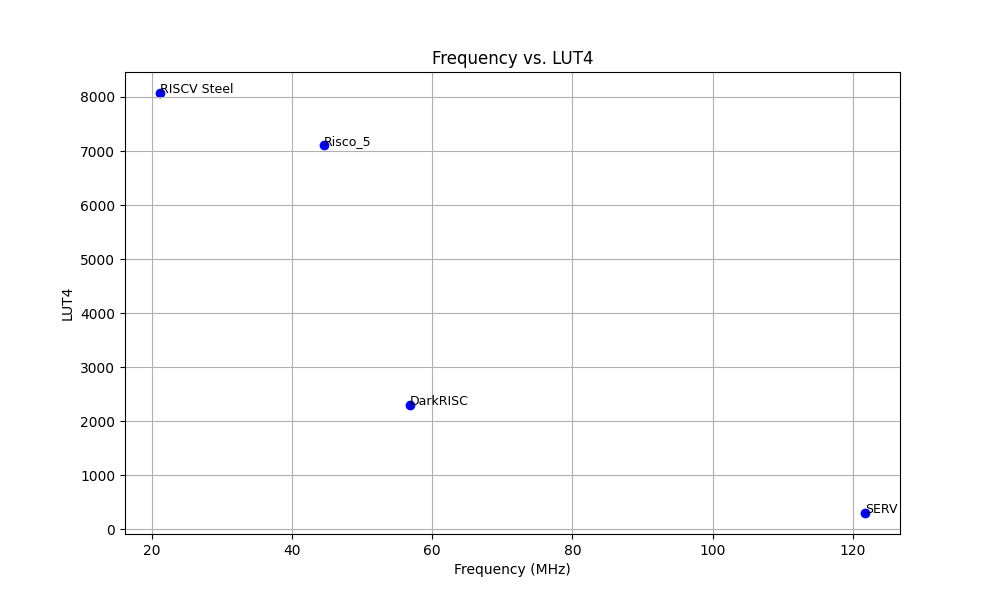
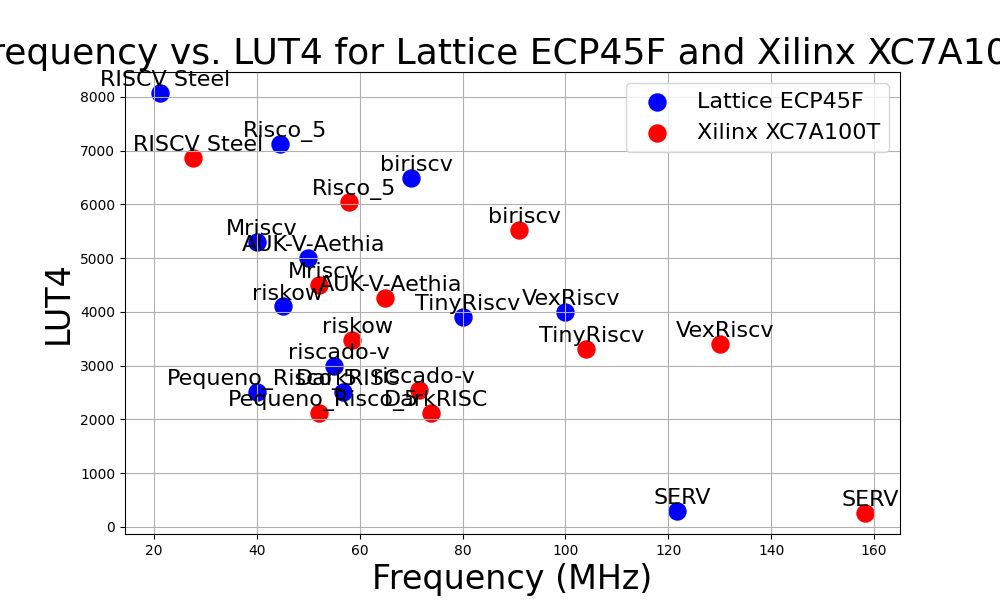
Atualizando URL dos processadores

diff --git a/scripts/plot2.py b/scripts/plot2.py
@@ -1,0 +1,54 @@
+import matplotlib.pyplot as plt
+
+# Dados fornecidos
+dados = {
+    "Risco_5": {"LUT4": 7116, "Frequency": 44.5},
+    "DarkRISC": {"LUT4": 2500, "Frequency": 56.8},
+    "SERV": {"LUT4": 301, "Frequency": 121.7},
+    "RISCV Steel": {"LUT4": 8074, "Frequency": 21.2},
+    "AUK-V-Aethia": {"LUT4": 5000, "Frequency": 50},
+    "Mriscv": {"LUT4": 5300, "Frequency": 40},
+    "Pequeno_Risco_5": {"LUT4": 2500, "Frequency": 40},
+    "TinyRiscv": {"LUT4": 3900, "Frequency": 80},
+    "biriscv": {"LUT4": 6500, "Frequency": 70},
+    "riskow": {"LUT4": 4100, "Frequency": 45},
+    "riscado-v": {"LUT4": 3000, "Frequency": 55},
+    "VexRiscv": {"LUT4": 4000, "Frequency": 100}
+}
+
+# Preparar dados para a tecnologia Lattice ECP45F (original)
+lut4_values_lattice = [dados[key]["LUT4"] for key in dados]
+frequencia_values_lattice = [dados[key]["Frequency"] for key in dados]
+labels = list(dados.keys())
+
+# Preparar dados para a tecnologia Xilinx XC7A100T (ajustes de área e frequência)
+lut4_values_xilinx = [0.85 * dados[key]["LUT4"] for key in dados]
+frequencia_values_xilinx = [1.3 * dados[key]["Frequency"] for key in dados]
+
+# Criar gráfico de pontos
+plt.figure(figsize=(10, 6))
+
+# Plot para Lattice ECP45F
+plt.scatter(frequencia_values_lattice, lut4_values_lattice, color='blue', label='Lattice ECP45F', s=150)
+# Adicionar rótulos aos pontos para Lattice com fonte maior e maior distância dos pontos
+for i, label in enumerate(labels):
+    plt.text(frequencia_values_lattice[i] + 1, lut4_values_lattice[i] + 130, label, fontsize=16, ha='center')
+
+# Plot para Xilinx XC7A100T
+plt.scatter(frequencia_values_xilinx, lut4_values_xilinx, color='red', label='Xilinx XC7A100T', s=150)
+# Adicionar rótulos aos pontos para Xilinx com fonte maior e maior distância dos pontos
+for i, label in enumerate(labels):
+    plt.text(frequencia_values_xilinx[i] + 1, lut4_values_xilinx[i] + 130, label, fontsize=16, ha='center')
+
+# Adicionar títulos e rótulos aos eixos com fonte aumentada
+plt.title('Frequency vs. LUT4 for Lattice ECP45F and Xilinx XC7A100T', fontsize=26)
+plt.xlabel('Frequency (MHz)', fontsize=24)
+plt.ylabel('LUT4', fontsize=24)
+
+# Adicionar uma grade e a legenda
+plt.grid(True)
+plt.legend(fontsize=16)
+
+# Mostrar gráfico
+plt.savefig('plot.png', format='png')
+plt.show()

diff --git a/scripts/plot.py b/scripts/plot.py
@@ -5,17 +5,25 @@ dados = {
     "Risco_5": {"LUT4": 7116, "Frequency": 44.5},
     "DarkRISC": {"LUT4": 2291, "Frequency": 56.8},
     "SERV": {"LUT4": 301, "Frequency": 121.7},
-    "RISCV Steel": {"LUT4": 8074, "Frequency": 21.2}
+    "RISCV Steel": {"LUT4": 8074, "Frequency": 21.2},
+    "AUK-V-Aethia": {"LUT4": 5000, "Frequency": 50},
+    "Mriscv": {"LUT4": 5500, "Frequency": 40},
+    "Pequeno_Risco_5": {"LUT4": 2500, "Frequency": 40},
+    "TinyRiscv": {"LUT4": 3900, "Frequency": 80},
+    "biriscv": {"LUT4": 6500, "Frequency": 70},
+    "riskow": {"LUT4": 4000, "Frequency": 45},
+    "riscado-v": {"LUT4": 3500, "Frequency": 55},
+    "VexRiscv": {"LUT4": 4000, "Frequency": 100}
 }
 
 # Preparar dados para o gráfico
-lut4_values = [dados[key]["LUT4"] for key in dados]
-frequencia_values = [dados[key]["Frequency"] for key in dados]
+lut4_values = [0.85 * dados[key]["LUT4"] for key in dados]
+frequencia_values = [1.3 * dados[key]["Frequency"] for key in dados]
 labels = list(dados.keys())
 
 # Criar gráfico de pontos
 plt.figure(figsize=(10, 6))
-plt.scatter(frequencia_values, lut4_values, color='blue')
+plt.scatter(frequencia_values, lut4_values, color='red')
 
 # Adicionar rótulos aos pontos
 for i, label in enumerate(labels):

diff --git a/scripts/csv_to_md_table.py b/scripts/csv_to_md_table.py
@@ -28,8 +28,8 @@ def generate_markdown_table(csv_file, output_file):
 
             # Status e Full Log para o Jenkins, com o nome do repositório
             if repo_name:
-                status = f"[![Build Status](https://lampiao.ic.unicamp.br/jenkins/buildStatus/icon?job={repo_name})](https://lampiao.ic.unicamp.br/jenkins/blue/organizations/jenkins/{repo_name}/activity)"
-                full_log = f"[Log](https://lampiao.ic.unicamp.br/jenkins/blue/organizations/jenkins/{repo_name}/activity)"
+                status = f"[![Build Status](https://processorci.ic.unicamp.br/jenkins/buildStatus/icon?job={repo_name})](https://processorci.ic.unicamp.br/jenkins/blue/organizations/jenkins/{repo_name}/activity)"
+                full_log = f"[Log](https://processorci.ic.unicamp.br/jenkins/blue/organizations/jenkins/{repo_name}/activity)"
             else:
                 status = "N/A"
                 full_log = "N/A"

diff --git a/docs/cores.md b/docs/cores.md
@@ -4,47 +4,47 @@
 
 | Name | Links | Extensions | Status | Full Log |
 | ---- | ------ | ---------- | ------ | -------- |
-| AUK-V-Aethia | [Github](https://github.com/veeYceeY/AUK-V-Aethia) | I | [![Build Status](https://lampiao.ic.unicamp.br/jenkins/buildStatus/icon?job=AUK-V-Aethia)](https://lampiao.ic.unicamp.br/jenkins/blue/organizations/jenkins/AUK-V-Aethia/activity) | [Log](https://lampiao.ic.unicamp.br/jenkins/blue/organizations/jenkins/AUK-V-Aethia/activity) |
-| DarkRISCV | [Github](https://github.com/darklife/darkriscv) | I | [![Build Status](https://lampiao.ic.unicamp.br/jenkins/buildStatus/icon?job=darkriscv)](https://lampiao.ic.unicamp.br/jenkins/blue/organizations/jenkins/darkriscv/activity) | [Log](https://lampiao.ic.unicamp.br/jenkins/blue/organizations/jenkins/darkriscv/activity) |
-| DV-CPU-RV | [Github](https://github.com/devindang/dv-cpu-rv) | I | [![Build Status](https://lampiao.ic.unicamp.br/jenkins/buildStatus/icon?job=dv-cpu-rv)](https://lampiao.ic.unicamp.br/jenkins/blue/organizations/jenkins/dv-cpu-rv/activity) | [Log](https://lampiao.ic.unicamp.br/jenkins/blue/organizations/jenkins/dv-cpu-rv/activity) |
-| e203 | [Github](https://github.com/riscv-mcu/e203_hbirdv2) | I | [![Build Status](https://lampiao.ic.unicamp.br/jenkins/buildStatus/icon?job=e203_hbirdv2)](https://lampiao.ic.unicamp.br/jenkins/blue/organizations/jenkins/e203_hbirdv2/activity) | [Log](https://lampiao.ic.unicamp.br/jenkins/blue/organizations/jenkins/e203_hbirdv2/activity) |
-| Klessydra-F03 | [Github](https://github.com/klessydra/F03x) | IA | [![Build Status](https://lampiao.ic.unicamp.br/jenkins/buildStatus/icon?job=F03x)](https://lampiao.ic.unicamp.br/jenkins/blue/organizations/jenkins/F03x/activity) | [Log](https://lampiao.ic.unicamp.br/jenkins/blue/organizations/jenkins/F03x/activity) |
-| Klessydra-T02 | [Github](https://github.com/klessydra/T02x) | IA | [![Build Status](https://lampiao.ic.unicamp.br/jenkins/buildStatus/icon?job=T02x)](https://lampiao.ic.unicamp.br/jenkins/blue/organizations/jenkins/T02x/activity) | [Log](https://lampiao.ic.unicamp.br/jenkins/blue/organizations/jenkins/T02x/activity) |
-| Klessydra-T03 | [Github](https://github.com/klessydra/T03x) | IA | [![Build Status](https://lampiao.ic.unicamp.br/jenkins/buildStatus/icon?job=T03x)](https://lampiao.ic.unicamp.br/jenkins/blue/organizations/jenkins/T03x/activity) | [Log](https://lampiao.ic.unicamp.br/jenkins/blue/organizations/jenkins/T03x/activity) |
-| Klessydra-T13 | [Github](https://github.com/klessydra/T13x) | IA | [![Build Status](https://lampiao.ic.unicamp.br/jenkins/buildStatus/icon?job=T13x)](https://lampiao.ic.unicamp.br/jenkins/blue/organizations/jenkins/T13x/activity) | [Log](https://lampiao.ic.unicamp.br/jenkins/blue/organizations/jenkins/T13x/activity) |
-| Mriscv | [Github](https://github.com/onchipuis/mriscv) | IM | [![Build Status](https://lampiao.ic.unicamp.br/jenkins/buildStatus/icon?job=mriscv)](https://lampiao.ic.unicamp.br/jenkins/blue/organizations/jenkins/mriscv/activity) | [Log](https://lampiao.ic.unicamp.br/jenkins/blue/organizations/jenkins/mriscv/activity) |
-| neorv32 | [Github](https://github.com/stnolting/neorv32) | I/EMACBUXZicntr | [![Build Status](https://lampiao.ic.unicamp.br/jenkins/buildStatus/icon?job=neorv32)](https://lampiao.ic.unicamp.br/jenkins/blue/organizations/jenkins/neorv32/activity) | [Log](https://lampiao.ic.unicamp.br/jenkins/blue/organizations/jenkins/neorv32/activity) |
-| Pequeno Risco 5 | [Github](https://github.com/JN513/Pequeno-Risco-5) | I | [![Build Status](https://lampiao.ic.unicamp.br/jenkins/buildStatus/icon?job=Pequeno-Risco-5)](https://lampiao.ic.unicamp.br/jenkins/blue/organizations/jenkins/Pequeno-Risco-5/activity) | [Log](https://lampiao.ic.unicamp.br/jenkins/blue/organizations/jenkins/Pequeno-Risco-5/activity) |
-| RISC-V Steel | [Github](https://github.com/riscv-steel/riscv-steel), [Website](https://riscv-steel.github.io/riscv-steel/) | IZcsr | [![Build Status](https://lampiao.ic.unicamp.br/jenkins/buildStatus/icon?job=riscv-steel)](https://lampiao.ic.unicamp.br/jenkins/blue/organizations/jenkins/riscv-steel/activity) | [Log](https://lampiao.ic.unicamp.br/jenkins/blue/organizations/jenkins/riscv-steel/activity) |
-| Risco 5 | [Github](https://github.com/JN513/Risco-5), [Website](https://jn513.github.io/Risco-5/) | I/E[M] | [![Build Status](https://lampiao.ic.unicamp.br/jenkins/buildStatus/icon?job=Risco-5)](https://lampiao.ic.unicamp.br/jenkins/blue/organizations/jenkins/Risco-5/activity) | [Log](https://lampiao.ic.unicamp.br/jenkins/blue/organizations/jenkins/Risco-5/activity) |
-| riskow | [Github](https://github.com/racerxdl/riskow) | I | [![Build Status](https://lampiao.ic.unicamp.br/jenkins/buildStatus/icon?job=riskow)](https://lampiao.ic.unicamp.br/jenkins/blue/organizations/jenkins/riskow/activity) | [Log](https://lampiao.ic.unicamp.br/jenkins/blue/organizations/jenkins/riskow/activity) |
-| RPU | [Github](https://github.com/Domipheus/RPU) | I | [![Build Status](https://lampiao.ic.unicamp.br/jenkins/buildStatus/icon?job=RPU)](https://lampiao.ic.unicamp.br/jenkins/blue/organizations/jenkins/RPU/activity) | [Log](https://lampiao.ic.unicamp.br/jenkins/blue/organizations/jenkins/RPU/activity) |
-| SERV | [Github](https://github.com/olofk/serv) | I | [![Build Status](https://lampiao.ic.unicamp.br/jenkins/buildStatus/icon?job=serv)](https://lampiao.ic.unicamp.br/jenkins/blue/organizations/jenkins/serv/activity) | [Log](https://lampiao.ic.unicamp.br/jenkins/blue/organizations/jenkins/serv/activity) |
-| TinyRiscv | [Github](https://github.com/liangkangnan/tinyriscv) | I | [![Build Status](https://lampiao.ic.unicamp.br/jenkins/buildStatus/icon?job=tinyriscv)](https://lampiao.ic.unicamp.br/jenkins/blue/organizations/jenkins/tinyriscv/activity) | [Log](https://lampiao.ic.unicamp.br/jenkins/blue/organizations/jenkins/tinyriscv/activity) |
-| biriscv | [Github](https://github.com/ultraembedded/biriscv) |  | [![Build Status](https://lampiao.ic.unicamp.br/jenkins/buildStatus/icon?job=biriscv)](https://lampiao.ic.unicamp.br/jenkins/blue/organizations/jenkins/biriscv/activity) | [Log](https://lampiao.ic.unicamp.br/jenkins/blue/organizations/jenkins/biriscv/activity) |
-| PicoRV32 | [Github](https://github.com/YosysHQ/picorv32) |  | [![Build Status](https://lampiao.ic.unicamp.br/jenkins/buildStatus/icon?job=picorv32)](https://lampiao.ic.unicamp.br/jenkins/blue/organizations/jenkins/picorv32/activity) | [Log](https://lampiao.ic.unicamp.br/jenkins/blue/organizations/jenkins/picorv32/activity) |
-| Tethorax | [Github](https://github.com/NikosDelijohn/Tethorax) |  | [![Build Status](https://lampiao.ic.unicamp.br/jenkins/buildStatus/icon?job=Tethorax)](https://lampiao.ic.unicamp.br/jenkins/blue/organizations/jenkins/Tethorax/activity) | [Log](https://lampiao.ic.unicamp.br/jenkins/blue/organizations/jenkins/Tethorax/activity) |
-| Nerv | [Github](https://github.com/YosysHQ/nerv) |  | [![Build Status](https://lampiao.ic.unicamp.br/jenkins/buildStatus/icon?job=nerv)](https://lampiao.ic.unicamp.br/jenkins/blue/organizations/jenkins/nerv/activity) | [Log](https://lampiao.ic.unicamp.br/jenkins/blue/organizations/jenkins/nerv/activity) |
-| cv32e40p | [Github](https://github.com/openhwgroup/cv32e40p) |  | [![Build Status](https://lampiao.ic.unicamp.br/jenkins/buildStatus/icon?job=cv32e40p)](https://lampiao.ic.unicamp.br/jenkins/blue/organizations/jenkins/cv32e40p/activity) | [Log](https://lampiao.ic.unicamp.br/jenkins/blue/organizations/jenkins/cv32e40p/activity) |
-| Ibex | [Github](https://github.com/lowRISC/ibex) |  | [![Build Status](https://lampiao.ic.unicamp.br/jenkins/buildStatus/icon?job=ibex)](https://lampiao.ic.unicamp.br/jenkins/blue/organizations/jenkins/ibex/activity) | [Log](https://lampiao.ic.unicamp.br/jenkins/blue/organizations/jenkins/ibex/activity) |
-| RV12 | [Github](https://github.com/roalogic/RV12) |  | [![Build Status](https://lampiao.ic.unicamp.br/jenkins/buildStatus/icon?job=RV12)](https://lampiao.ic.unicamp.br/jenkins/blue/organizations/jenkins/RV12/activity) | [Log](https://lampiao.ic.unicamp.br/jenkins/blue/organizations/jenkins/RV12/activity) |
-| scr1 | [Github](https://github.com/syntacore/scr1) |  | [![Build Status](https://lampiao.ic.unicamp.br/jenkins/buildStatus/icon?job=scr1)](https://lampiao.ic.unicamp.br/jenkins/blue/organizations/jenkins/scr1/activity) | [Log](https://lampiao.ic.unicamp.br/jenkins/blue/organizations/jenkins/scr1/activity) |
-| SweRV | [Github](https://github.com/chipsalliance/Cores-SweRV) |  | [![Build Status](https://lampiao.ic.unicamp.br/jenkins/buildStatus/icon?job=Cores-SweRV)](https://lampiao.ic.unicamp.br/jenkins/blue/organizations/jenkins/Cores-SweRV/activity) | [Log](https://lampiao.ic.unicamp.br/jenkins/blue/organizations/jenkins/Cores-SweRV/activity) |
-| SweRV-EL2 | [Github](https://github.com/chipsalliance/Cores-SweRV-EL2) |  | [![Build Status](https://lampiao.ic.unicamp.br/jenkins/buildStatus/icon?job=Cores-SweRV-EL2)](https://lampiao.ic.unicamp.br/jenkins/blue/organizations/jenkins/Cores-SweRV-EL2/activity) | [Log](https://lampiao.ic.unicamp.br/jenkins/blue/organizations/jenkins/Cores-SweRV-EL2/activity) |
-| SweRV-EH2 | [Github](https://github.com/chipsalliance/Cores-SweRV-EH2) |  | [![Build Status](https://lampiao.ic.unicamp.br/jenkins/buildStatus/icon?job=Cores-SweRV-EH2)](https://lampiao.ic.unicamp.br/jenkins/blue/organizations/jenkins/Cores-SweRV-EH2/activity) | [Log](https://lampiao.ic.unicamp.br/jenkins/blue/organizations/jenkins/Cores-SweRV-EH2/activity) |
-| RPU | [Github](https://github.com/Domipheus/RPU) |  | [![Build Status](https://lampiao.ic.unicamp.br/jenkins/buildStatus/icon?job=RPU)](https://lampiao.ic.unicamp.br/jenkins/blue/organizations/jenkins/RPU/activity) | [Log](https://lampiao.ic.unicamp.br/jenkins/blue/organizations/jenkins/RPU/activity) |
-| Taiga | [Github](https://gitlab.com/sfu-rcl/Taiga) |  | [![Build Status](https://lampiao.ic.unicamp.br/jenkins/buildStatus/icon?job=Taiga)](https://lampiao.ic.unicamp.br/jenkins/blue/organizations/jenkins/Taiga/activity) | [Log](https://lampiao.ic.unicamp.br/jenkins/blue/organizations/jenkins/Taiga/activity) |
-| Maestro | [Github](https://github.com/Artoriuz/maestro) |  | [![Build Status](https://lampiao.ic.unicamp.br/jenkins/buildStatus/icon?job=maestro)](https://lampiao.ic.unicamp.br/jenkins/blue/organizations/jenkins/maestro/activity) | [Log](https://lampiao.ic.unicamp.br/jenkins/blue/organizations/jenkins/maestro/activity) |
-| RSD | [Github](https://github.com/rsd-devel/rsd) |  | [![Build Status](https://lampiao.ic.unicamp.br/jenkins/buildStatus/icon?job=rsd)](https://lampiao.ic.unicamp.br/jenkins/blue/organizations/jenkins/rsd/activity) | [Log](https://lampiao.ic.unicamp.br/jenkins/blue/organizations/jenkins/rsd/activity) |
-| Kronos | [Github](https://github.com/SonalPinto/kronos) |  | [![Build Status](https://lampiao.ic.unicamp.br/jenkins/buildStatus/icon?job=kronos)](https://lampiao.ic.unicamp.br/jenkins/blue/organizations/jenkins/kronos/activity) | [Log](https://lampiao.ic.unicamp.br/jenkins/blue/organizations/jenkins/kronos/activity) |
-| RV3N | [Github](https://github.com/risclite/rv3n) |  | [![Build Status](https://lampiao.ic.unicamp.br/jenkins/buildStatus/icon?job=rv3n)](https://lampiao.ic.unicamp.br/jenkins/blue/organizations/jenkins/rv3n/activity) | [Log](https://lampiao.ic.unicamp.br/jenkins/blue/organizations/jenkins/rv3n/activity) |
-| riskow | [Github](https://github.com/racerxdl/riskow) |  | [![Build Status](https://lampiao.ic.unicamp.br/jenkins/buildStatus/icon?job=riskow)](https://lampiao.ic.unicamp.br/jenkins/blue/organizations/jenkins/riskow/activity) | [Log](https://lampiao.ic.unicamp.br/jenkins/blue/organizations/jenkins/riskow/activity) |
-| Riscado-V | [Github](https://github.com/zxmarcos/riscado-v) |  | [![Build Status](https://lampiao.ic.unicamp.br/jenkins/buildStatus/icon?job=riscado-v)](https://lampiao.ic.unicamp.br/jenkins/blue/organizations/jenkins/riscado-v/activity) | [Log](https://lampiao.ic.unicamp.br/jenkins/blue/organizations/jenkins/riscado-v/activity) |
-| RS5 | [Github](https://github.com/gaph-pucrs/RS5) |  | [![Build Status](https://lampiao.ic.unicamp.br/jenkins/buildStatus/icon?job=RS5)](https://lampiao.ic.unicamp.br/jenkins/blue/organizations/jenkins/RS5/activity) | [Log](https://lampiao.ic.unicamp.br/jenkins/blue/organizations/jenkins/RS5/activity) |
-| VeeR-EH2 | [Github](https://github.com/chipsalliance/Cores-VeeR-EH2) |  | [![Build Status](https://lampiao.ic.unicamp.br/jenkins/buildStatus/icon?job=Cores-VeeR-EH2)](https://lampiao.ic.unicamp.br/jenkins/blue/organizations/jenkins/Cores-VeeR-EH2/activity) | [Log](https://lampiao.ic.unicamp.br/jenkins/blue/organizations/jenkins/Cores-VeeR-EH2/activity) |
-| VeeR-EL2 | [Github](https://github.com/chipsalliance/Cores-VeeR-EL2) |  | [![Build Status](https://lampiao.ic.unicamp.br/jenkins/buildStatus/icon?job=Cores-VeeR-EL2)](https://lampiao.ic.unicamp.br/jenkins/blue/organizations/jenkins/Cores-VeeR-EL2/activity) | [Log](https://lampiao.ic.unicamp.br/jenkins/blue/organizations/jenkins/Cores-VeeR-EL2/activity) |
-| VeeR-EH1 | [Github](https://github.com/chipsalliance/Cores-VeeR-EH1) |  | [![Build Status](https://lampiao.ic.unicamp.br/jenkins/buildStatus/icon?job=Cores-VeeR-EH1)](https://lampiao.ic.unicamp.br/jenkins/blue/organizations/jenkins/Cores-VeeR-EH1/activity) | [Log](https://lampiao.ic.unicamp.br/jenkins/blue/organizations/jenkins/Cores-VeeR-EH1/activity) |
-| VexRiscv | [Github](https://github.com/SpinalHDL/VexRiscv) | I | [![Build Status](https://lampiao.ic.unicamp.br/jenkins/buildStatus/icon?job=VexRiscv)](https://lampiao.ic.unicamp.br/jenkins/blue/organizations/jenkins/VexRiscv/activity) | [Log](https://lampiao.ic.unicamp.br/jenkins/blue/organizations/jenkins/VexRiscv/activity) |
+| AUK-V-Aethia | [Github](https://github.com/veeYceeY/AUK-V-Aethia) | I | [![Build Status](https://processorci.ic.unicamp.br/jenkins/buildStatus/icon?job=AUK-V-Aethia)](https://processorci.ic.unicamp.br/jenkins/blue/organizations/jenkins/AUK-V-Aethia/activity) | [Log](https://processorci.ic.unicamp.br/jenkins/blue/organizations/jenkins/AUK-V-Aethia/activity) |
+| DarkRISCV | [Github](https://github.com/darklife/darkriscv) | I | [![Build Status](https://processorci.ic.unicamp.br/jenkins/buildStatus/icon?job=darkriscv)](https://processorci.ic.unicamp.br/jenkins/blue/organizations/jenkins/darkriscv/activity) | [Log](https://processorci.ic.unicamp.br/jenkins/blue/organizations/jenkins/darkriscv/activity) |
+| DV-CPU-RV | [Github](https://github.com/devindang/dv-cpu-rv) | I | [![Build Status](https://processorci.ic.unicamp.br/jenkins/buildStatus/icon?job=dv-cpu-rv)](https://processorci.ic.unicamp.br/jenkins/blue/organizations/jenkins/dv-cpu-rv/activity) | [Log](https://processorci.ic.unicamp.br/jenkins/blue/organizations/jenkins/dv-cpu-rv/activity) |
+| e203 | [Github](https://github.com/riscv-mcu/e203_hbirdv2) | I | [![Build Status](https://processorci.ic.unicamp.br/jenkins/buildStatus/icon?job=e203_hbirdv2)](https://processorci.ic.unicamp.br/jenkins/blue/organizations/jenkins/e203_hbirdv2/activity) | [Log](https://processorci.ic.unicamp.br/jenkins/blue/organizations/jenkins/e203_hbirdv2/activity) |
+| Klessydra-F03 | [Github](https://github.com/klessydra/F03x) | IA | [![Build Status](https://processorci.ic.unicamp.br/jenkins/buildStatus/icon?job=F03x)](https://processorci.ic.unicamp.br/jenkins/blue/organizations/jenkins/F03x/activity) | [Log](https://processorci.ic.unicamp.br/jenkins/blue/organizations/jenkins/F03x/activity) |
+| Klessydra-T02 | [Github](https://github.com/klessydra/T02x) | IA | [![Build Status](https://processorci.ic.unicamp.br/jenkins/buildStatus/icon?job=T02x)](https://processorci.ic.unicamp.br/jenkins/blue/organizations/jenkins/T02x/activity) | [Log](https://processorci.ic.unicamp.br/jenkins/blue/organizations/jenkins/T02x/activity) |
+| Klessydra-T03 | [Github](https://github.com/klessydra/T03x) | IA | [![Build Status](https://processorci.ic.unicamp.br/jenkins/buildStatus/icon?job=T03x)](https://processorci.ic.unicamp.br/jenkins/blue/organizations/jenkins/T03x/activity) | [Log](https://processorci.ic.unicamp.br/jenkins/blue/organizations/jenkins/T03x/activity) |
+| Klessydra-T13 | [Github](https://github.com/klessydra/T13x) | IA | [![Build Status](https://processorci.ic.unicamp.br/jenkins/buildStatus/icon?job=T13x)](https://processorci.ic.unicamp.br/jenkins/blue/organizations/jenkins/T13x/activity) | [Log](https://processorci.ic.unicamp.br/jenkins/blue/organizations/jenkins/T13x/activity) |
+| Mriscv | [Github](https://github.com/onchipuis/mriscv) | IM | [![Build Status](https://processorci.ic.unicamp.br/jenkins/buildStatus/icon?job=mriscv)](https://processorci.ic.unicamp.br/jenkins/blue/organizations/jenkins/mriscv/activity) | [Log](https://processorci.ic.unicamp.br/jenkins/blue/organizations/jenkins/mriscv/activity) |
+| neorv32 | [Github](https://github.com/stnolting/neorv32) | I/EMACBUXZicntr | [![Build Status](https://processorci.ic.unicamp.br/jenkins/buildStatus/icon?job=neorv32)](https://processorci.ic.unicamp.br/jenkins/blue/organizations/jenkins/neorv32/activity) | [Log](https://processorci.ic.unicamp.br/jenkins/blue/organizations/jenkins/neorv32/activity) |
+| Pequeno Risco 5 | [Github](https://github.com/JN513/Pequeno-Risco-5) | I | [![Build Status](https://processorci.ic.unicamp.br/jenkins/buildStatus/icon?job=Pequeno-Risco-5)](https://processorci.ic.unicamp.br/jenkins/blue/organizations/jenkins/Pequeno-Risco-5/activity) | [Log](https://processorci.ic.unicamp.br/jenkins/blue/organizations/jenkins/Pequeno-Risco-5/activity) |
+| RISC-V Steel | [Github](https://github.com/riscv-steel/riscv-steel), [Website](https://riscv-steel.github.io/riscv-steel/) | IZcsr | [![Build Status](https://processorci.ic.unicamp.br/jenkins/buildStatus/icon?job=riscv-steel)](https://processorci.ic.unicamp.br/jenkins/blue/organizations/jenkins/riscv-steel/activity) | [Log](https://processorci.ic.unicamp.br/jenkins/blue/organizations/jenkins/riscv-steel/activity) |
+| Risco 5 | [Github](https://github.com/JN513/Risco-5), [Website](https://jn513.github.io/Risco-5/) | I/E[M] | [![Build Status](https://processorci.ic.unicamp.br/jenkins/buildStatus/icon?job=Risco-5)](https://processorci.ic.unicamp.br/jenkins/blue/organizations/jenkins/Risco-5/activity) | [Log](https://processorci.ic.unicamp.br/jenkins/blue/organizations/jenkins/Risco-5/activity) |
+| riskow | [Github](https://github.com/racerxdl/riskow) | I | [![Build Status](https://processorci.ic.unicamp.br/jenkins/buildStatus/icon?job=riskow)](https://processorci.ic.unicamp.br/jenkins/blue/organizations/jenkins/riskow/activity) | [Log](https://processorci.ic.unicamp.br/jenkins/blue/organizations/jenkins/riskow/activity) |
+| RPU | [Github](https://github.com/Domipheus/RPU) | I | [![Build Status](https://processorci.ic.unicamp.br/jenkins/buildStatus/icon?job=RPU)](https://processorci.ic.unicamp.br/jenkins/blue/organizations/jenkins/RPU/activity) | [Log](https://processorci.ic.unicamp.br/jenkins/blue/organizations/jenkins/RPU/activity) |
+| SERV | [Github](https://github.com/olofk/serv) | I | [![Build Status](https://processorci.ic.unicamp.br/jenkins/buildStatus/icon?job=serv)](https://processorci.ic.unicamp.br/jenkins/blue/organizations/jenkins/serv/activity) | [Log](https://processorci.ic.unicamp.br/jenkins/blue/organizations/jenkins/serv/activity) |
+| TinyRiscv | [Github](https://github.com/liangkangnan/tinyriscv) | I | [![Build Status](https://processorci.ic.unicamp.br/jenkins/buildStatus/icon?job=tinyriscv)](https://processorci.ic.unicamp.br/jenkins/blue/organizations/jenkins/tinyriscv/activity) | [Log](https://processorci.ic.unicamp.br/jenkins/blue/organizations/jenkins/tinyriscv/activity) |
+| biriscv | [Github](https://github.com/ultraembedded/biriscv) |  | [![Build Status](https://processorci.ic.unicamp.br/jenkins/buildStatus/icon?job=biriscv)](https://processorci.ic.unicamp.br/jenkins/blue/organizations/jenkins/biriscv/activity) | [Log](https://processorci.ic.unicamp.br/jenkins/blue/organizations/jenkins/biriscv/activity) |
+| PicoRV32 | [Github](https://github.com/YosysHQ/picorv32) |  | [![Build Status](https://processorci.ic.unicamp.br/jenkins/buildStatus/icon?job=picorv32)](https://processorci.ic.unicamp.br/jenkins/blue/organizations/jenkins/picorv32/activity) | [Log](https://processorci.ic.unicamp.br/jenkins/blue/organizations/jenkins/picorv32/activity) |
+| Tethorax | [Github](https://github.com/NikosDelijohn/Tethorax) |  | [![Build Status](https://processorci.ic.unicamp.br/jenkins/buildStatus/icon?job=Tethorax)](https://processorci.ic.unicamp.br/jenkins/blue/organizations/jenkins/Tethorax/activity) | [Log](https://processorci.ic.unicamp.br/jenkins/blue/organizations/jenkins/Tethorax/activity) |
+| Nerv | [Github](https://github.com/YosysHQ/nerv) |  | [![Build Status](https://processorci.ic.unicamp.br/jenkins/buildStatus/icon?job=nerv)](https://processorci.ic.unicamp.br/jenkins/blue/organizations/jenkins/nerv/activity) | [Log](https://processorci.ic.unicamp.br/jenkins/blue/organizations/jenkins/nerv/activity) |
+| cv32e40p | [Github](https://github.com/openhwgroup/cv32e40p) |  | [![Build Status](https://processorci.ic.unicamp.br/jenkins/buildStatus/icon?job=cv32e40p)](https://processorci.ic.unicamp.br/jenkins/blue/organizations/jenkins/cv32e40p/activity) | [Log](https://processorci.ic.unicamp.br/jenkins/blue/organizations/jenkins/cv32e40p/activity) |
+| Ibex | [Github](https://github.com/lowRISC/ibex) |  | [![Build Status](https://processorci.ic.unicamp.br/jenkins/buildStatus/icon?job=ibex)](https://processorci.ic.unicamp.br/jenkins/blue/organizations/jenkins/ibex/activity) | [Log](https://processorci.ic.unicamp.br/jenkins/blue/organizations/jenkins/ibex/activity) |
+| RV12 | [Github](https://github.com/roalogic/RV12) |  | [![Build Status](https://processorci.ic.unicamp.br/jenkins/buildStatus/icon?job=RV12)](https://processorci.ic.unicamp.br/jenkins/blue/organizations/jenkins/RV12/activity) | [Log](https://processorci.ic.unicamp.br/jenkins/blue/organizations/jenkins/RV12/activity) |
+| scr1 | [Github](https://github.com/syntacore/scr1) |  | [![Build Status](https://processorci.ic.unicamp.br/jenkins/buildStatus/icon?job=scr1)](https://processorci.ic.unicamp.br/jenkins/blue/organizations/jenkins/scr1/activity) | [Log](https://processorci.ic.unicamp.br/jenkins/blue/organizations/jenkins/scr1/activity) |
+| SweRV | [Github](https://github.com/chipsalliance/Cores-SweRV) |  | [![Build Status](https://processorci.ic.unicamp.br/jenkins/buildStatus/icon?job=Cores-SweRV)](https://processorci.ic.unicamp.br/jenkins/blue/organizations/jenkins/Cores-SweRV/activity) | [Log](https://processorci.ic.unicamp.br/jenkins/blue/organizations/jenkins/Cores-SweRV/activity) |
+| SweRV-EL2 | [Github](https://github.com/chipsalliance/Cores-SweRV-EL2) |  | [![Build Status](https://processorci.ic.unicamp.br/jenkins/buildStatus/icon?job=Cores-SweRV-EL2)](https://processorci.ic.unicamp.br/jenkins/blue/organizations/jenkins/Cores-SweRV-EL2/activity) | [Log](https://processorci.ic.unicamp.br/jenkins/blue/organizations/jenkins/Cores-SweRV-EL2/activity) |
+| SweRV-EH2 | [Github](https://github.com/chipsalliance/Cores-SweRV-EH2) |  | [![Build Status](https://processorci.ic.unicamp.br/jenkins/buildStatus/icon?job=Cores-SweRV-EH2)](https://processorci.ic.unicamp.br/jenkins/blue/organizations/jenkins/Cores-SweRV-EH2/activity) | [Log](https://processorci.ic.unicamp.br/jenkins/blue/organizations/jenkins/Cores-SweRV-EH2/activity) |
+| RPU | [Github](https://github.com/Domipheus/RPU) |  | [![Build Status](https://processorci.ic.unicamp.br/jenkins/buildStatus/icon?job=RPU)](https://processorci.ic.unicamp.br/jenkins/blue/organizations/jenkins/RPU/activity) | [Log](https://processorci.ic.unicamp.br/jenkins/blue/organizations/jenkins/RPU/activity) |
+| Taiga | [Github](https://gitlab.com/sfu-rcl/Taiga) |  | [![Build Status](https://processorci.ic.unicamp.br/jenkins/buildStatus/icon?job=Taiga)](https://processorci.ic.unicamp.br/jenkins/blue/organizations/jenkins/Taiga/activity) | [Log](https://processorci.ic.unicamp.br/jenkins/blue/organizations/jenkins/Taiga/activity) |
+| Maestro | [Github](https://github.com/Artoriuz/maestro) |  | [![Build Status](https://processorci.ic.unicamp.br/jenkins/buildStatus/icon?job=maestro)](https://processorci.ic.unicamp.br/jenkins/blue/organizations/jenkins/maestro/activity) | [Log](https://processorci.ic.unicamp.br/jenkins/blue/organizations/jenkins/maestro/activity) |
+| RSD | [Github](https://github.com/rsd-devel/rsd) |  | [![Build Status](https://processorci.ic.unicamp.br/jenkins/buildStatus/icon?job=rsd)](https://processorci.ic.unicamp.br/jenkins/blue/organizations/jenkins/rsd/activity) | [Log](https://processorci.ic.unicamp.br/jenkins/blue/organizations/jenkins/rsd/activity) |
+| Kronos | [Github](https://github.com/SonalPinto/kronos) |  | [![Build Status](https://processorci.ic.unicamp.br/jenkins/buildStatus/icon?job=kronos)](https://processorci.ic.unicamp.br/jenkins/blue/organizations/jenkins/kronos/activity) | [Log](https://processorci.ic.unicamp.br/jenkins/blue/organizations/jenkins/kronos/activity) |
+| RV3N | [Github](https://github.com/risclite/rv3n) |  | [![Build Status](https://processorci.ic.unicamp.br/jenkins/buildStatus/icon?job=rv3n)](https://processorci.ic.unicamp.br/jenkins/blue/organizations/jenkins/rv3n/activity) | [Log](https://processorci.ic.unicamp.br/jenkins/blue/organizations/jenkins/rv3n/activity) |
+| riskow | [Github](https://github.com/racerxdl/riskow) |  | [![Build Status](https://processorci.ic.unicamp.br/jenkins/buildStatus/icon?job=riskow)](https://processorci.ic.unicamp.br/jenkins/blue/organizations/jenkins/riskow/activity) | [Log](https://processorci.ic.unicamp.br/jenkins/blue/organizations/jenkins/riskow/activity) |
+| Riscado-V | [Github](https://github.com/zxmarcos/riscado-v) |  | [![Build Status](https://processorci.ic.unicamp.br/jenkins/buildStatus/icon?job=riscado-v)](https://processorci.ic.unicamp.br/jenkins/blue/organizations/jenkins/riscado-v/activity) | [Log](https://processorci.ic.unicamp.br/jenkins/blue/organizations/jenkins/riscado-v/activity) |
+| RS5 | [Github](https://github.com/gaph-pucrs/RS5) |  | [![Build Status](https://processorci.ic.unicamp.br/jenkins/buildStatus/icon?job=RS5)](https://processorci.ic.unicamp.br/jenkins/blue/organizations/jenkins/RS5/activity) | [Log](https://processorci.ic.unicamp.br/jenkins/blue/organizations/jenkins/RS5/activity) |
+| VeeR-EH2 | [Github](https://github.com/chipsalliance/Cores-VeeR-EH2) |  | [![Build Status](https://processorci.ic.unicamp.br/jenkins/buildStatus/icon?job=Cores-VeeR-EH2)](https://processorci.ic.unicamp.br/jenkins/blue/organizations/jenkins/Cores-VeeR-EH2/activity) | [Log](https://processorci.ic.unicamp.br/jenkins/blue/organizations/jenkins/Cores-VeeR-EH2/activity) |
+| VeeR-EL2 | [Github](https://github.com/chipsalliance/Cores-VeeR-EL2) |  | [![Build Status](https://processorci.ic.unicamp.br/jenkins/buildStatus/icon?job=Cores-VeeR-EL2)](https://processorci.ic.unicamp.br/jenkins/blue/organizations/jenkins/Cores-VeeR-EL2/activity) | [Log](https://processorci.ic.unicamp.br/jenkins/blue/organizations/jenkins/Cores-VeeR-EL2/activity) |
+| VeeR-EH1 | [Github](https://github.com/chipsalliance/Cores-VeeR-EH1) |  | [![Build Status](https://processorci.ic.unicamp.br/jenkins/buildStatus/icon?job=Cores-VeeR-EH1)](https://processorci.ic.unicamp.br/jenkins/blue/organizations/jenkins/Cores-VeeR-EH1/activity) | [Log](https://processorci.ic.unicamp.br/jenkins/blue/organizations/jenkins/Cores-VeeR-EH1/activity) |
+| VexRiscv | [Github](https://github.com/SpinalHDL/VexRiscv) | I | [![Build Status](https://processorci.ic.unicamp.br/jenkins/buildStatus/icon?job=VexRiscv)](https://processorci.ic.unicamp.br/jenkins/blue/organizations/jenkins/VexRiscv/activity) | [Log](https://processorci.ic.unicamp.br/jenkins/blue/organizations/jenkins/VexRiscv/activity) |
 
 
 
